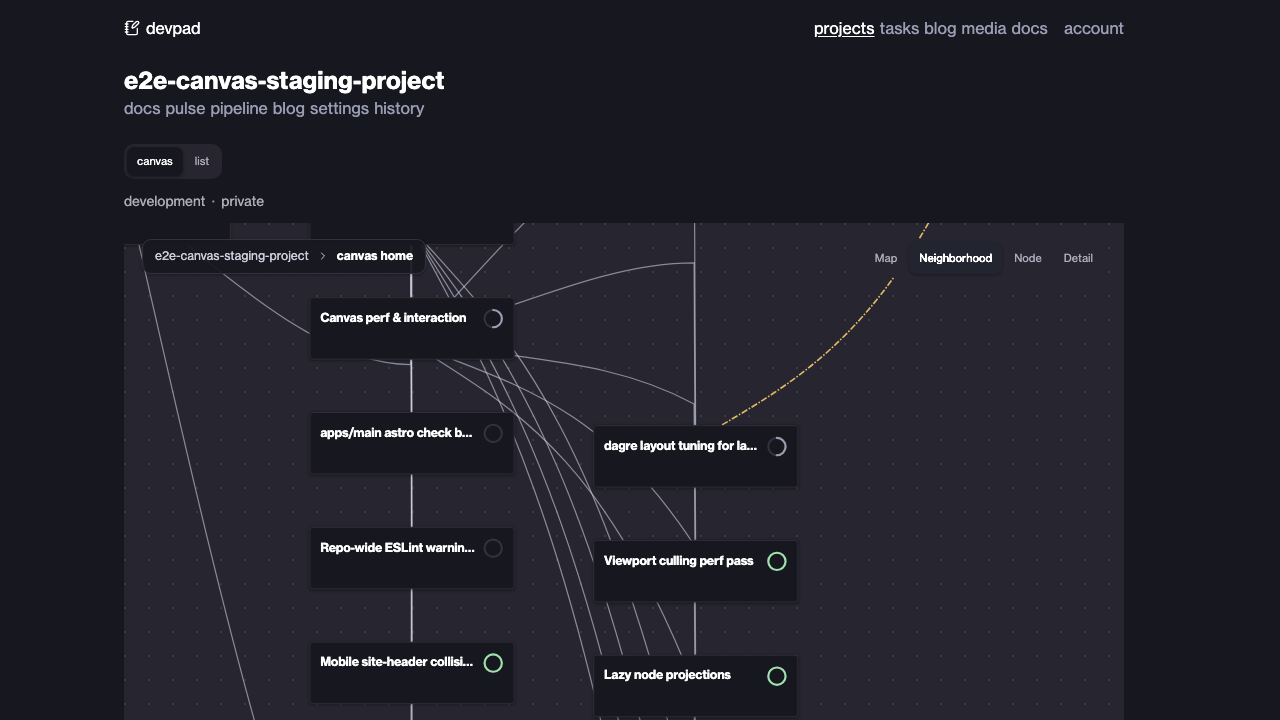
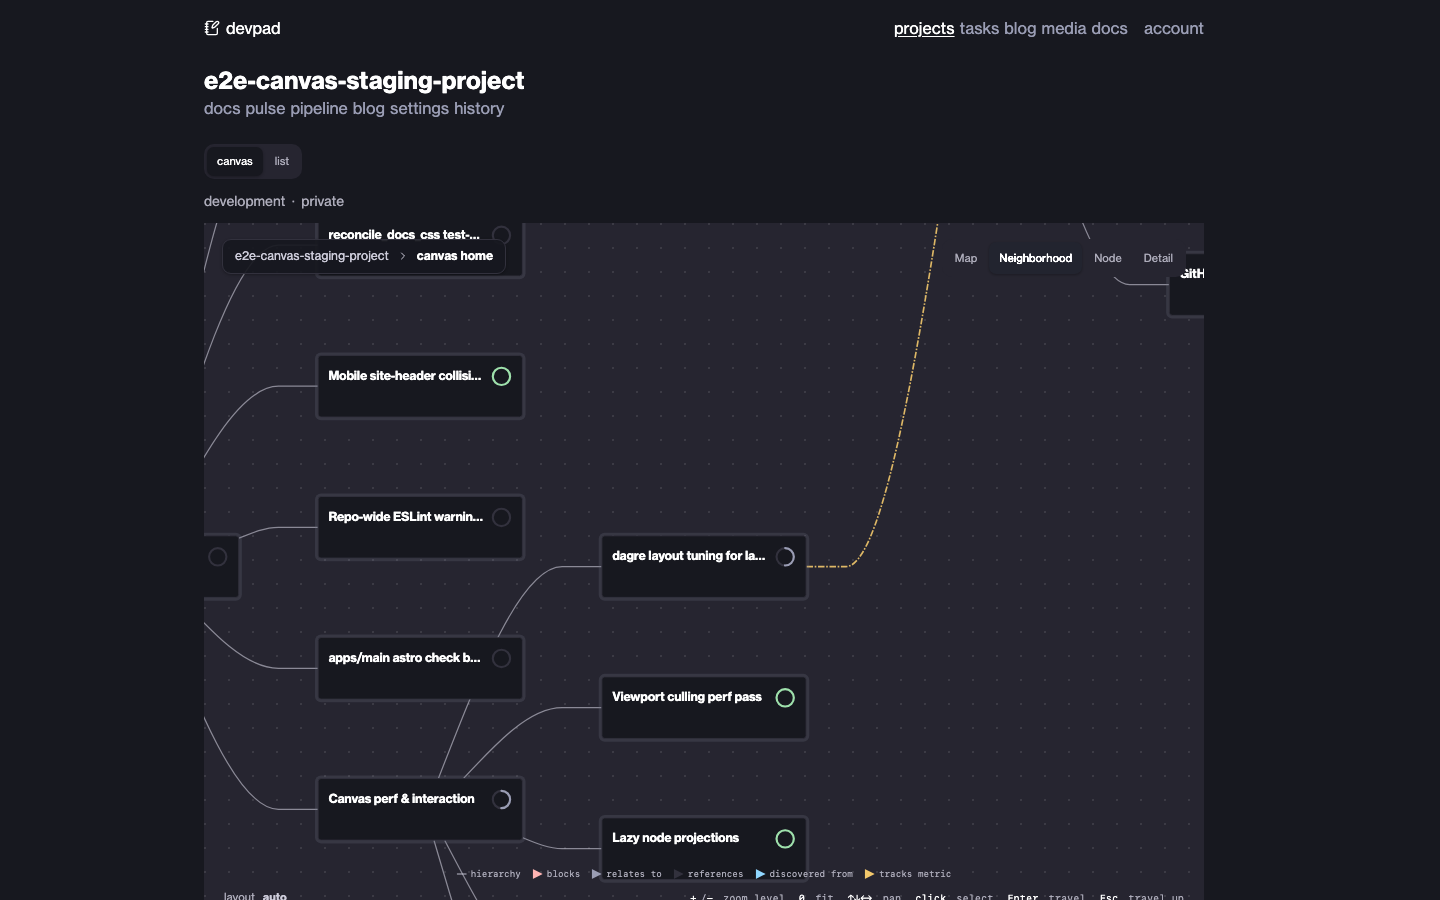
fix: dagre stays the layout — agent-placement no longer overrides ranked positions
motivation:
---
- PR #151's canvas-edges fix was not ready: the staging fixture's map view
  collapsed into a narrow vertical strip and neighborhood-level edges ran
  straight through cards, converging off-screen top-left, instead of
  connecting node borders.
- Root cause: `apply_view_overrides`'s "beside its parent" agent-placement
  fallback unconditionally repositioned every `created_by: "api"` task,
  discarding dagre's own LR rank — 47/55 staging tasks are agent-created, so
  almost the whole forest's horizontal spread got collapsed into a handful
  of x columns stacked vertically under each parent. `layout.ts`'s edges
  (routed for the ORIGINAL dagre positions) then kept pointing at where
  nodes used to be, since `apply_view_overrides` never re-routes them.
- This fallback predates the "hierarchy edges" pass (parent_id -> child now
  always feeds dagre a structural edge), which made it dead weight for any
  connected node — dagre already ranks every parent/child pair correctly.

approach:
---
- `apply_view_overrides` now only applies the beside-parent offset when the
  node has NO `hierarchy` edge to its resolved parent in the layout — i.e.
  dagre never actually ranked it against that parent. For the common case
  (parent_id present in the same task set), this is now dormant: the node
  keeps dagre's position and is still marked in `programmaticIds` (drives
  the unrelated visual "agent-created" chip/cue, independent of position).
[…]

diff --git a/apps/main/src/components/solid/canvas/layout.test.ts b/apps/main/src/components/solid/canvas/layout.test.ts
@@ -1,6 +1,15 @@
 import type { Task, TaskLink } from "@devpad/schema";
 import { describe, expect, test } from "bun:test";
-import { apply_view_overrides, CANVAS_NODE_H, CANVAS_NODE_W, EMPTY_LAYOUT, layout_graph } from "./layout";
+import staging_graph from "../../../../../../tests/e2e/fixtures/staging-devpad-graph.json" with { type: "json" };
+import {
+	apply_view_overrides,
+	CANVAS_NODE_H,
+	CANVAS_NODE_W,
+	clip_edge_endpoints,
+	EMPTY_LAYOUT,
+	layout_graph,
+	node_size_for,
+} from "./layout";
 
 const make_task = (id: string, overrides: Partial<Task> = {}): Task => {
 	const task: Task = {
@@ -162,9 +171,33 @@ describe("apply_view_overrides", () => {
 		expect(overridden.programmaticIds.has("b")).toBe(false);
 	});
 
-	test("an unpinned agent-created task is placed beside its resolved parent position", () => {
+	test("an agent-created task dagre already ranked via a hierarchy edge is marked programmatic but keeps dagre's position — dagre stays the layout", () => {
 		const tasks = [make_task("parent"), make_task("child", { parent_id: "parent", created_by: "api" })];
 		const layout = layout_graph(tasks, []);
+		const raw_child = layout.nodes.find((n) => n.task.id === "child");
+
+		const overridden = apply_view_overrides(layout);
+
+		const child = overridden.nodes.find((n) => n.task.id === "child");
+		expect(overridden.programmaticIds.has("child")).toBe(true);
+		expect(child?.x).toBe(raw_child?.x);
+		expect(child?.y).toBe(raw_child?.y);
+	});
+
+	test("an agent-created node with NO hierarchy edge to its resolved parent (structurally disconnected) falls back to beside-parent placement", () => {
+		// Built directly rather than via layout_graph — this exercises the
+		// defensive fallback for a node dagre never actually ranked against its
+		// parent (no `hierarchy` edge in the layout), which layout_graph no
+		// longer produces for any parent_id present in the same task set.
+		const tasks = [make_task("parent"), make_task("child", { parent_id: "parent", created_by: "api" })];
+		const layout = {
+			nodes: [
+				{ task: tasks[0], x: 0, y: 0 },
+				{ task: tasks[1], x: 0, y: 0 },
+			],
+			edges: [],
+			bounds: { x: 0, y: 0, w: 0, h: 0 },
+		};
 
 		const overridden = apply_view_overrides(layout);
 
@@ -174,9 +207,16 @@ describe("apply_view_overrides", () => {
 		expect(child?.x).toBeGreaterThan(parent?.x ?? 0);
 	});
 
-	test("pinning the parent drags an unpinned agent-created child along with it", () => {
+	test("pinning the parent drags an unpinned, structurally-disconnected agent-created child along with it", () => {
 		const tasks = [make_task("parent"), make_task("child", { parent_id: "parent", created_by: "api" })];
-		const layout = layout_graph(tasks, []);
+		const layout = {
+			nodes: [
+				{ task: tasks[0], x: 0, y: 0 },
+				{ task: tasks[1], x: 0, y: 0 },
+			],
+			edges: [],
+			bounds: { x: 0, y: 0, w: 0, h: 0 },
+		};
 
 		const overridden = apply_view_overrides(layout, undefined, { parent: { x: 500, y: 500 } });
 
@@ -192,5 +232,77 @@ describe("apply_view_overrides", () => {
 		const overridden = apply_view_overrides(layout);
 
 		expect(overridden.programmaticIds.size).toBe(0);
+	});
+});
+
+/**
+ * Regression coverage for the "map view collapses into a narrow vertical
+ * strip, edges run through cards" bug: `apply_view_overrides`' agent-
+ * placement fallback used to unconditionally reposition every
+ * `created_by: "api"` task beside its parent, discarding dagre's own LR rank
+ * for the 47/55 staging tasks that are agent-created — collapsing the whole
+ * forest's horizontal spread into a handful of x columns while `layout.ts`'s
+ * edges (routed for the ORIGINAL dagre positions) kept pointing at where
+ * nodes used to be. This suite runs the real `layout_graph` +
+ * `apply_view_overrides` pipeline against the exact fixture from Tom's
+ * staging review.
+ */
+describe("layout_graph + apply_view_overrides on the staging fixture", () => {
+	const tasks = staging_graph.tasks as unknown as Task[];
+	const links = staging_graph.links as unknown as TaskLink[];
+	const layout = apply_view_overrides(layout_graph(tasks, links));
+
+	test("every edge's endpoints land within its src/dst node's rect, not off in stale dagre-routed space", () => {
+		const by_id = new Map(layout.nodes.map((n) => [n.task.id, n]));
+		for (const edge of layout.edges) {
+			const src = by_id.get(edge.src_id);
+			const dst = by_id.get(edge.dst_id);
+			expect(src).toBeDefined();
+			expect(dst).toBeDefined();
+			if (!src || !dst) continue;
+
+			const src_size = node_size_for(src.task.kind, "neighborhood");
+			const dst_size = node_size_for(dst.task.kind, "neighborhood");
+			const [first, ...rest] = clip_edge_endpoints(
+				edge.points,
+				{ x: src.x, y: src.y, size: src_size },
+				{ x: dst.x, y: dst.y, size: dst_size },
+			);
+			const last = rest.at(-1) ?? first;
+
+			expect(first.x).toBeGreaterThanOrEqual(src.x - src_size.width / 2 - 0.5);
+			expect(first.x).toBeLessThanOrEqual(src.x + src_size.width / 2 + 0.5);
+			expect(first.y).toBeGreaterThanOrEqual(src.y - src_size.height / 2 - 0.5);
+			expect(first.y).toBeLessThanOrEqual(src.y + src_size.height / 2 + 0.5);
+
+			expect(last.x).toBeGreaterThanOrEqual(dst.x - dst_size.width / 2 - 0.5);
+			expect(last.x).toBeLessThanOrEqual(dst.x + dst_size.width / 2 + 0.5);
+			expect(last.y).toBeGreaterThanOrEqual(dst.y - dst_size.height / 2 - 0.5);
+			expect(last.y).toBeLessThanOrEqual(dst.y + dst_size.height / 2 + 0.5);
+		}
+	});
+
+	test("no two node rects (dagre's own reserved footprint) intersect", () => {
+		const half_w = CANVAS_NODE_W / 2;
+		const half_h = CANVAS_NODE_H / 2;
+		const rects = layout.nodes.map((n) => ({
+			x0: n.x - half_w,
+			x1: n.x + half_w,
+			y0: n.y - half_h,
+			y1: n.y + half_h,
+		}));
+		for (let i = 0; i < rects.length; i++) {
+			for (let j = i + 1; j < rects.length; j++) {
+				const a = rects[i];
+				const b = rects[j];
+				const overlaps = a.x0 < b.x1 && a.x1 > b.x0 && a.y0 < b.y1 && a.y1 > b.y0;
+				expect(overlaps).toBe(false);
+			}
+		}
+	});
+
+	test("the forest spreads across at least 3 distinct rank columns — not collapsed into a single narrow strip", () => {
+		const distinct_x = new Set(layout.nodes.map((n) => Math.round(n.x / 10)));
+		expect(distinct_x.size).toBeGreaterThanOrEqual(3);
 	});
 });

diff --git a/apps/main/src/components/solid/canvas/layout.ts b/apps/main/src/components/solid/canvas/layout.ts
@@ -170,13 +170,19 @@ export type ViewPin = { readonly x: number; readonly y: number };
 const AGENT_PLACEMENT_OFFSET = { dx: CANVAS_NODE_W * 0.7, dy: CANVAS_NODE_H * 0.9 };
 
 /**
- * P3.3 — applies view-state pins (drag overrides, last-write-wins) and, for
- * any UNPINNED agent-created task (`created_by === "api"`) with a parent
- * elsewhere in the same layout, a deterministic "beside its parent"
- * placement instead of wherever dagre put it — so an agent-created node
- * never gets lost in a busy map. Returns which node ids got the
- * agent-placement treatment (`programmaticIds`) so the caller can show the
- * one-time visual cue.
+ * P3.3 — applies view-state pins (drag overrides, last-write-wins). For any
+ * UNPINNED agent-created task (`created_by === "api"`) with a parent
+ * elsewhere in the same layout, `programmaticIds` still marks it (drives the
+ * `.canvas-node-programmatic` chip + one-time placement cue) — but its
+ * POSITION is only overridden with the deterministic "beside its parent"
+ * offset when dagre never actually ranked it against that parent (no
+ * `hierarchy` edge connects them — layout_graph's job since the
+ * "hierarchy edges" pass, see layout.ts's top-of-file comment). Every
+ * `parent_id` present in the same task set now feeds dagre a hierarchy edge,
+ * so this fallback is dormant in the common case; it exists only for the
+ * defensive case of a structurally-disconnected agent-created node. dagre
+ * stays the layout — this function must never REPLACE a rank dagre already
+ * computed, only fill in for a node it couldn't rank at all.
  */
 export function apply_view_overrides(
 	layout: GraphLayout,
@@ -194,6 +200,9 @@ export function apply_view_overrides(
 			return [node.task.id, pin ? { x: pin.x, y: pin.y } : { x: node.x, y: node.y }] as const;
 		}),
 	);
+	const hierarchy_connected = new Set(
+		layout.edges.filter((edge) => edge.kind === "hierarchy").map((edge) => `${edge.src_id}:${edge.dst_id}`),
+	);
 	const programmaticIds = new Set<string>();
 	const sibling_count = new Map<string, number>();
 
@@ -203,17 +212,18 @@ export function apply_view_overrides(
 
 		const parent_id = node.task.parent_id;
 		const parent_pos = parent_id ? resolved.get(parent_id) : undefined;
-		if (node.task.created_by === "api" && parent_pos) {
-			const index = sibling_count.get(parent_id ?? "") ?? 0;
-			sibling_count.set(parent_id ?? "", index + 1);
-			programmaticIds.add(node.task.id);
-			return {
-				...node,
-				x: parent_pos.x + AGENT_PLACEMENT_OFFSET.dx,
-				y: parent_pos.y + AGENT_PLACEMENT_OFFSET.dy + index * (node_size.height + 16),
-			};
-		}
-		return node;
+		if (node.task.created_by !== "api" || !parent_pos || !parent_id) return node;
+
+		programmaticIds.add(node.task.id);
+		if (hierarchy_connected.has(`${parent_id}:${node.task.id}`)) return node; // dagre already ranked it — leave its position alone
+
+		const index = sibling_count.get(parent_id) ?? 0;
+		sibling_count.set(parent_id, index + 1);
+		return {
+			...node,
+			x: parent_pos.x + AGENT_PLACEMENT_OFFSET.dx,
+			y: parent_pos.y + AGENT_PLACEMENT_OFFSET.dy + index * (node_size.height + 16),
+		};
 	});
 
 	return { nodes, edges: layout.edges, bounds: bounds_for(nodes, node_size), programmaticIds };
